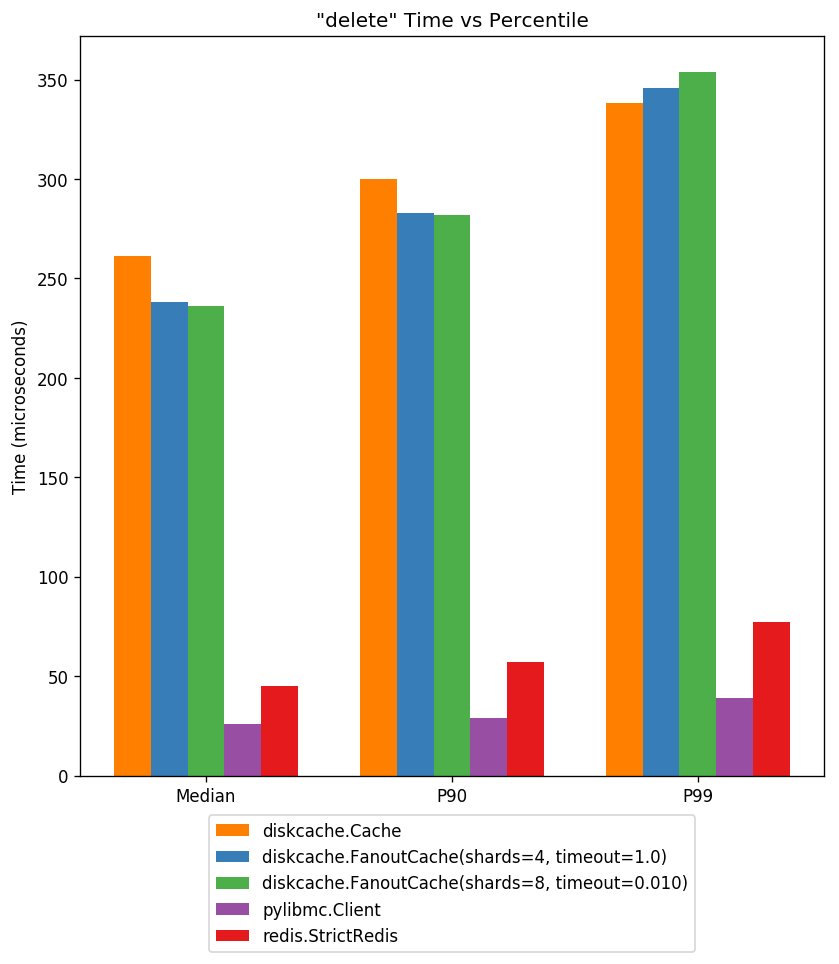
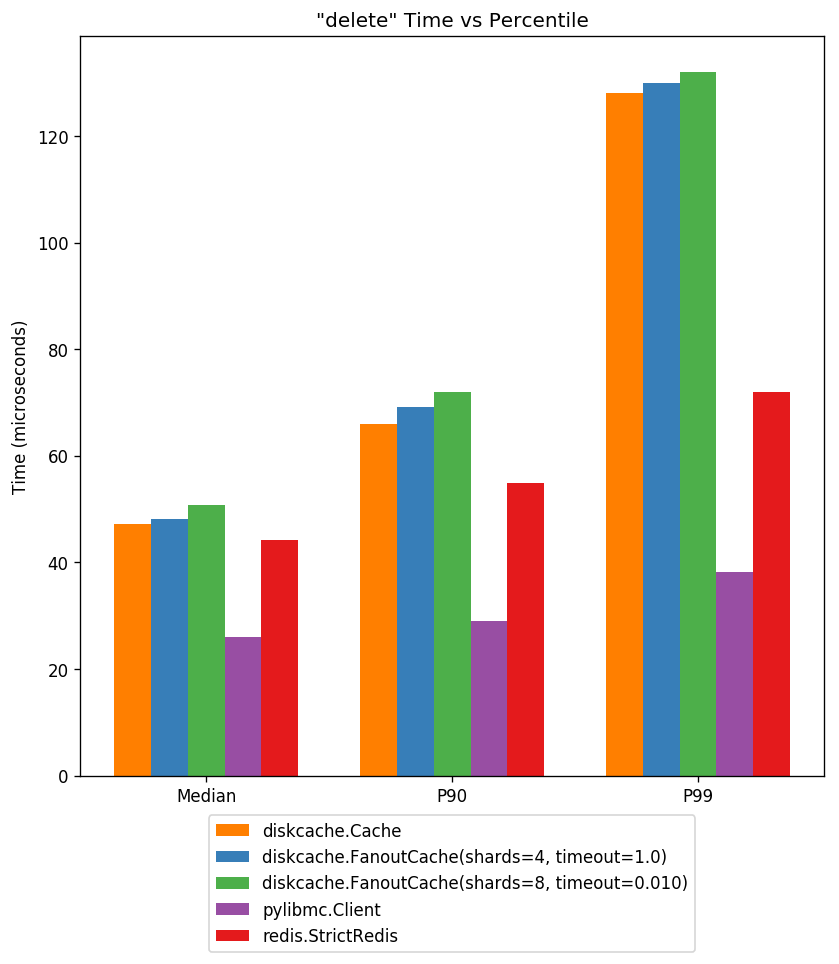
Update benchmark graphs, data, and comments

diff --git a/docs/cache-benchmarks.rst b/docs/cache-benchmarks.rst
@@ -68,10 +68,10 @@ Timings for diskcache.Cache
 -------------------------------------------------------------------------------
    Action     Count      Miss    Median       P90       P99       Max     Total
 ========= ========= ========= ========= ========= ========= ========= =========
-      get     88966      9705  17.881us  28.849us  41.962us 472.069us   1.701s
-      set      9021         0 300.884us 338.078us 394.106us 658.989us   2.736s
-   delete      1012       104 261.068us 299.931us 338.078us 598.907us 248.081ms
-    Total     98999                                                     4.686s
+      get     88966      9705  12.159us  17.166us  28.849us 174.999us   1.206s
+      set      9021         0  68.903us  93.937us 188.112us  10.297ms 875.907ms
+   delete      1012       104  47.207us  66.042us 128.031us   7.160ms  89.599ms
+    Total     98999                                                     2.171s
 ========= ========= ========= ========= ========= ========= ========= =========
 
 The generated workload includes a ~1% cache miss rate. All items were stored
@@ -82,10 +82,10 @@ Timings for diskcache.FanoutCache(shards=4, timeout=1.0)
 -------------------------------------------------------------------------------
    Action     Count      Miss    Median       P90       P99       Max     Total
 ========= ========= ========= ========= ========= ========= ========= =========
-      get     88966      9705  15.974us  28.133us  41.962us 522.852us   1.605s
-      set      9021         0 281.096us 318.050us 388.145us   5.438ms   2.537s
-   delete      1012       104 237.942us 283.003us 345.945us   2.058ms 231.609ms
-    Total     98999                                                     4.374s
+      get     88966      9705  15.020us  20.027us  33.855us 437.021us   1.425s
+      set      9021         0  71.049us 100.136us 203.133us   9.186ms 892.262ms
+   delete      1012       104  48.161us  69.141us 129.952us   5.216ms  87.294ms
+    Total     98999                                                     2.405s
 ========= ========= ========= ========= ========= ========= ========= =========
 
 The high maximum store latency is likely an artifact of disk/OS interactions.
@@ -95,25 +95,25 @@ Timings for diskcache.FanoutCache(shards=8, timeout=0.010)
 -------------------------------------------------------------------------------
    Action     Count      Miss    Median       P90       P99       Max     Total
 ========= ========= ========= ========= ========= ========= ========= =========
-      get     88966      9705  16.928us  29.087us  40.054us 141.859us   1.692s
-      set      9021         0 275.850us 312.090us 386.953us 611.067us   2.486s
-   delete      1012       104 236.034us 282.049us 354.052us 546.932us 228.918ms
-    Total     98999                                                     4.407s
+      get     88966      9705  15.020us  20.027us  34.094us 627.995us   1.420s
+      set      9021         0  72.956us 100.851us 203.133us   9.623ms 927.824ms
+   delete      1012       104  50.783us  72.002us 132.084us   8.396ms  78.898ms
+    Total     98999                                                     2.426s
 ========= ========= ========= ========= ========= ========= ========= =========
 
 Notice the low overhead of the :class:`FanoutCache
-<diskcache.FanoutCache>`. Even without concurrent access, a slight benefit is
-observable.
+<diskcache.FanoutCache>`. Increasing the number of shards from four to eight
+has a negligible impact on performance.
 
 ========= ========= ========= ========= ========= ========= ========= =========
 Timings for pylibmc.Client
 -------------------------------------------------------------------------------
    Action     Count      Miss    Median       P90       P99       Max     Total
 ========= ========= ========= ========= ========= ========= ========= =========
-      get     88966      9705  25.988us  30.041us  41.962us 269.890us   2.407s
-      set      9021         0  28.133us  31.948us  45.061us  88.930us 262.482ms
-   delete      1012       104  25.988us  29.087us  39.101us  65.804us  27.031ms
-    Total     98999                                                     2.697s
+      get     88966      9705  25.988us  29.802us  41.008us 139.952us   2.388s
+      set      9021         0  27.895us  30.994us  40.054us  97.990us 254.248ms
+   delete      1012       104  25.988us  29.087us  38.147us  89.169us  27.159ms
+    Total     98999                                                     2.669s
 ========= ========= ========= ========= ========= ========= ========= =========
 
 Memcached performance is low latency and very stable.
@@ -123,14 +123,14 @@ Timings for redis.StrictRedis
 -------------------------------------------------------------------------------
    Action     Count      Miss    Median       P90       P99       Max     Total
 ========= ========= ========= ========= ========= ========= ========= =========
-      get     88966      9705  45.061us  49.114us  77.009us 197.887us   4.171s
-      set      9021         0  46.015us  50.068us  77.963us 179.052us 429.199ms
-   delete      1012       104  44.823us  56.982us  77.009us 104.189us  47.746ms
-    Total     98999                                                     4.648s
+      get     88966      9705  44.107us  54.121us  73.910us 204.086us   4.125s
+      set      9021         0  45.061us  56.028us  75.102us 237.942us 427.197ms
+   delete      1012       104  44.107us  54.836us  72.002us 126.839us  46.771ms
+    Total     98999                                                     4.599s
 ========= ========= ========= ========= ========= ========= ========= =========
 
 Redis performance is roughly half that of Memcached. :doc:`DiskCache <index>`
-performs better than Redis for get operations through the 99th percentile.
+performs better than Redis for get operations through the Max percentile.
 
 Concurrent Access
 -----------------
@@ -176,10 +176,10 @@ Timings for diskcache.Cache
 -------------------------------------------------------------------------------
    Action     Count      Miss    Median       P90       P99       Max     Total
 ========= ========= ========= ========= ========= ========= ========= =========
-      get    712546     72929  16.928us  29.802us  45.061us 517.130us  13.617s
-      set     71530         0 303.030us 360.966us  36.302ms   6.251s  269.090s
-   delete      7916       773 265.837us 330.925us  35.141ms   1.339s   17.652s
-    Total    791992                                                   300.358s
+      get    712546     71214  15.974us  23.127us  40.054us   4.953ms  12.349s
+      set     71530         0  94.891us   1.328ms  21.307ms   1.846s  131.728s
+   delete      7916       807  65.088us   1.278ms  19.610ms   1.244s   13.811s
+    Total    791992                                                   157.888s
 ========= ========= ========= ========= ========= ========= ========= =========
 
 Notice the unacceptably high maximum store and delete latency. Without
@@ -191,10 +191,10 @@ Timings for diskcache.FanoutCache(shards=4, timeout=1.0)
 -------------------------------------------------------------------------------
    Action     Count      Miss    Median       P90       P99       Max     Total
 ========= ========= ========= ========= ========= ========= ========= =========
-      get    712546     72975  17.166us  34.094us  73.195us   8.381ms  15.575s
-      set     71530         0 228.882us   1.421ms  19.039ms 333.486ms  79.159s
-   delete      7916       784 198.126us   1.385ms  19.165ms 107.130ms   8.838s
-    Total    791992                                                   103.572s
+      get    712546     71623  19.073us  35.048us  59.843us  12.980ms  16.849s
+      set     71530         0 108.004us   1.313ms   9.176ms 333.361ms  50.821s
+   delete      7916       767  73.195us   1.264ms   9.033ms 108.232ms   4.964s
+    Total    791992                                                    72.634s
 ========= ========= ========= ========= ========= ========= ========= =========
 
 Here :class:`FanoutCache <diskcache.FanoutCache>` uses four shards to
@@ -207,10 +207,10 @@ Timings for diskcache.FanoutCache(shards=8, timeout=0.010)
 -------------------------------------------------------------------------------
    Action     Count      Miss    Median       P90       P99       Max     Total
 ========= ========= ========= ========= ========= ========= ========= =========
-      get    712546     71626  24.080us  46.015us  72.956us   6.997ms  20.241s
-      set     71530       106 253.916us   1.400ms   8.787ms  15.915ms  47.683s
-   delete      7916       779 216.961us   1.345ms   8.602ms  11.446ms   4.516s
-    Total    791992                                                    72.440s
+      get    712546     71106  25.034us  47.922us 101.089us   9.015ms  22.336s
+      set     71530        39 134.945us   1.324ms   5.763ms  16.027ms  33.347s
+   delete      7916       775  88.930us   1.267ms   5.017ms  13.732ms   3.308s
+    Total    791992                                                    58.991s
 ========= ========= ========= ========= ========= ========= ========= =========
 
 With one shard allocated per worker and a low timeout, the maximum latency is
@@ -224,16 +224,16 @@ Timings for pylibmc.Client
 -------------------------------------------------------------------------------
    Action     Count      Miss    Median       P90       P99       Max     Total
 ========= ========= ========= ========= ========= ========= ========= =========
-      get    712546     72146  83.208us 105.143us 120.878us 520.945us  61.320s
-      set     71530         0  85.115us 107.050us 123.024us 458.002us   6.285s
-   delete      7916       792  82.016us 103.951us 119.925us 298.977us 673.505ms
-    Total    791992                                                    68.279s
+      get    712546     72043  83.923us 107.050us 123.978us 617.027us  61.824s
+      set     71530         0  84.877us 108.004us 124.931us 312.090us   6.283s
+   delete      7916       796  82.970us 105.858us 123.024us 288.963us 680.970ms
+    Total    791992                                                    68.788s
 ========= ========= ========= ========= ========= ========= ========= =========
 
 Memcached performance is low latency and stable even under heavy load. Notice
-that cache gets are half as fast in total as compared with :class:`FanoutCache
-<diskcache.FanoutCache>`. The superior performance of get operations put the
-overall performance of :doc:`DiskCache <index>` within ten percent of
+that cache gets are three times slower in total as compared with
+:class:`FanoutCache <diskcache.FanoutCache>`. The superior performance of get
+operations put the overall performance of :doc:`DiskCache <index>` ahead of
 Memcached.
 
 ========= ========= ========= ========= ========= ========= ========= =========
@@ -241,10 +241,10 @@ Timings for redis.StrictRedis
 -------------------------------------------------------------------------------
    Action     Count      Miss    Median       P90       P99       Max     Total
 ========= ========= ========= ========= ========= ========= ========= =========
-      get    712546     72652 141.144us 174.999us 210.047us 931.978us 103.515s
-      set     71530         0 142.097us 174.999us 211.000us 623.941us  10.457s
-   delete      7916       811 139.952us 172.138us 205.994us 288.963us   1.138s
-    Total    791992                                                   115.110s
+      get    712546     72093 138.044us 169.039us 212.908us 151.121ms 101.197s
+      set     71530         0 138.998us 169.992us 216.007us   1.200ms  10.173s
+   delete      7916       752 136.137us 167.847us 211.954us   1.059ms   1.106s
+    Total    791992                                                   112.476s
 ========= ========= ========= ========= ========= ========= ========= =========
 
 Redis performance is roughly half that of Memcached. Beware the impact of

diff --git a/docs/djangocache-benchmarks.rst b/docs/djangocache-benchmarks.rst
@@ -136,10 +136,10 @@ Timings for locmem
 -------------------------------------------------------------------------------
    Action     Count      Miss    Median       P90       P99       Max     Total
 ========= ========= ========= ========= ========= ========= ========= =========
-      get    712546    140750  35.048us  56.982us  59.128us   8.609ms  28.325s
-      set     71530         0  36.955us  38.147us  46.015us   6.582ms   2.670s
-   delete      7916         0  31.948us  34.809us  36.955us   2.065ms 255.893ms
-    Total    791992                                                    31.252s
+      get    712546    140750  36.001us  57.936us  60.081us  10.202ms  28.962s
+      set     71530         0  36.955us  39.101us  45.061us   2.784ms   2.709s
+   delete      7916         0  32.902us  35.048us  37.193us   1.524ms 265.399ms
+    Total    791992                                                    31.936s
 ========= ========= ========= ========= ========= ========= ========= =========
 
 Notice the high cache miss rate. This reflects the isolation of local memory
@@ -151,10 +151,10 @@ Timings for memcached
 -------------------------------------------------------------------------------
    Action     Count      Miss    Median       P90       P99       Max     Total
 ========= ========= ========= ========= ========= ========= ========= =========
-      get    712546     69192  88.930us 102.043us 123.978us 917.912us  63.269s
-      set     71530         0  92.030us 106.096us 127.077us 804.901us   6.604s
-   delete      7916         0  87.023us 100.136us 122.070us 201.941us 687.053ms
-    Total    791992                                                    70.560s
+      get    712546     69185  87.023us  99.182us 110.865us 576.973us  61.758s
+      set     71530         0  89.169us 102.043us 114.202us 259.876us   6.395s
+   delete      7916         0  85.115us  97.990us 108.957us 201.941us 672.212ms
+    Total    791992                                                    68.825s
 ========= ========= ========= ========= ========= ========= ========= =========
 
 Memcached performance is low latency and very stable.
@@ -164,13 +164,13 @@ Timings for redis
 -------------------------------------------------------------------------------
    Action     Count      Miss    Median       P90       P99       Max     Total
 ========= ========= ========= ========= ========= ========= ========= =========
-      get    712546     68891 174.046us 213.146us 251.055us   1.084ms 126.502s
-      set     71530         0 179.052us 216.007us 252.962us 478.983us  13.056s
-   delete      7916       770 156.879us 193.119us 227.213us 293.970us   1.268s
-    Total    791992                                                   140.826s
+      get    712546     69526 160.933us 195.980us 239.134us   1.365ms 116.816s
+      set     71530         0 166.178us 200.987us 242.949us 587.940us  12.143s
+   delete      7916       791 143.051us 177.860us 217.915us 330.925us   1.165s
+    Total    791992                                                   130.124s
 ========= ========= ========= ========= ========= ========= ========= =========
 
-Redis performance is roughtly half that of Memcached. Beware the impact of
+Redis performance is roughly half that of Memcached. Beware the impact of
 persistence settings on your Redis performance. Depending on your use of
 logging and snapshotting, maximum latency may increase significantly.
 
@@ -179,17 +179,17 @@ Timings for diskcache
 -------------------------------------------------------------------------------
    Action     Count      Miss    Median       P90       P99       Max     Total
 ========= ========= ========= ========= ========= ========= ========= =========
-      get    712546     69423  36.001us  59.128us  92.983us   7.305ms  28.354s
-      set     71530         0 300.169us   1.451ms   8.877ms  39.359ms  51.403s
-   delete      7916         0 239.134us   1.378ms   8.740ms  14.397ms   4.926s
-    Total    791992                                                    84.683s
+      get    712546     69509  33.855us  56.982us  79.155us  11.908ms  30.078s
+      set     71530         0 178.814us   1.355ms   5.032ms  26.620ms  34.461s
+   delete      7916         0 107.050us   1.280ms   4.738ms  17.217ms   3.303s
+    Total    791992                                                    67.842s
 ========= ========= ========= ========= ========= ========= ========= =========
 
 :class:`DjangoCache <diskcache.DjangoCache>` defaults to using eight shards
 with a 10 millisecond timeout. Notice that cache get operations are in
 aggregate more than twice as fast as Memcached. And total cache time for all
-operations is only 20% slower. The higher set and delete latencies are due to
-the retry behavior of :class:`DjangoCache <diskcache.DjangoCache>` objects. If
+operations is comparable. The higher set and delete latencies are due to the
+retry behavior of :class:`DjangoCache <diskcache.DjangoCache>` objects. If
 lower latency is required then the retry behavior can be disabled.
 
 ========= ========= ========= ========= ========= ========= ========= =========
@@ -197,12 +197,12 @@ Timings for filebased
 -------------------------------------------------------------------------------
    Action     Count      Miss    Median       P90       P99       Max     Total
 ========= ========= ========= ========= ========= ========= ========= =========
-      get    712598     99964 101.805us 171.900us 365.973us   5.407ms  83.088s
-      set     71557         0   7.903ms  10.250ms  12.787ms  34.464ms 578.779s
-   delete      7837         0 200.987us 346.899us 596.046us   1.250ms   1.736s
-    Total    791992                                                   663.603s
+      get    712749    103843 112.772us 193.119us 423.908us  18.428ms  92.428s
+      set     71431         0   8.893ms  11.742ms  14.790ms  44.201ms 646.879s
+   delete      7812         0 223.875us 389.099us 679.016us  15.058ms   1.940s
+    Total    791992                                                   741.247s
 ========= ========= ========= ========= ========= ========= ========= =========
 
 Notice the higher cache miss rate. That's a result of the cache's random
-culling strategy. Get and set operations also take two to seven times longer in
-aggregate as compared with :class:`DjangoCache <diskcache.DjangoCache>`.
+culling strategy. Get and set operations also take three to twenty times longer
+in aggregate as compared with :class:`DjangoCache <diskcache.DjangoCache>`.
